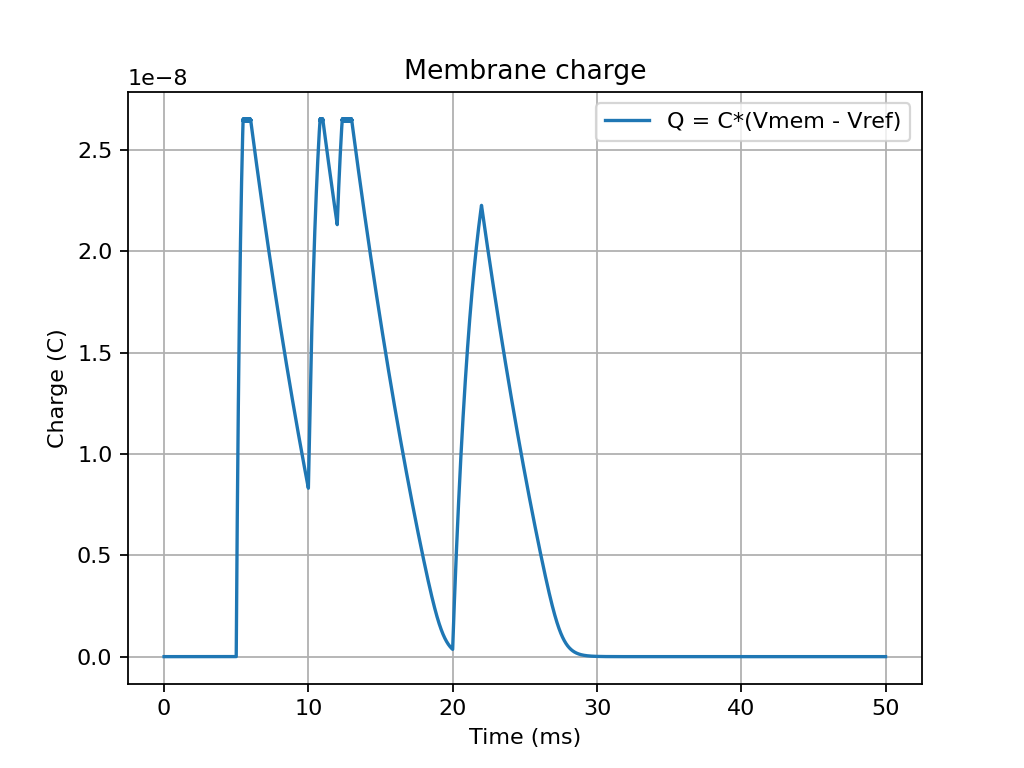
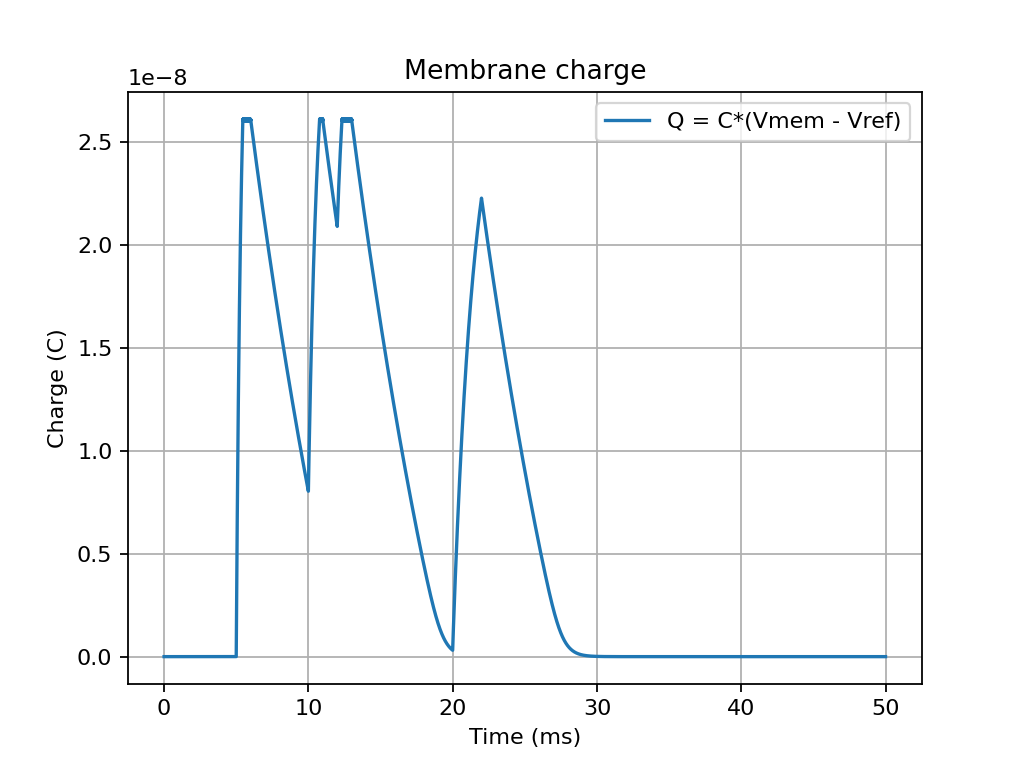
Minor improvements

diff --git a/SPICE/neuronSim/lif_neuron_generator.py b/SPICE/neuronSim/lif_neuron_generator.py
@@ -140,46 +140,72 @@ def generate_fast_neuron(cfg: NeuronConfig) -> str:
 def generate_detailed_neuron(cfg: NeuronConfig) -> str:
     """
     DETAILED neuron subckt:
-      - Vref buffered by a simple OPA604-like macromodel (finite gain and GBW)
-      - Comparator has input offset and explicit delay (via RC)
-      - Reset through MAX4617-like Ron (+ external series resistor) and Coff
+      - Vref buffered (OPA604-like follower)
+      - Membrane RC to Vref
+      - Comparator with *real* hysteresis network (resistors) and small delay/offset
+      - Reset through MAX4617-like Ron/Coff + series resistor
     """
     s = []
     s.append(_header(f"{cfg.name} DETAILED neuron subcircuit"))
     s.append(f".subckt {cfg.name}_detailed mem vref vdd comp_out vpos vneg\n")
-    # Vref buffer (OPA604-like): simple single-pole op-amp model in unity gain
+
+    # --- Vref buffer (OPA604-like follower; simple high-gain + pole) ---
     s.append("* OPA604-like buffer for Vref (unity gain follower)\n")
-    s.append("Ebuf vref_buf 0 vref 0 1e5\n")                 # finite DC gain
+    s.append("Ebuf vref_buf 0 vref 0 1e5\n")        # very high DC gain
     s.append("Rbuf vref_buf vref 1k\n")
-    s.append("Cbuf vref 0 80p\n")                            # sets a pole ~20 MHz for 1e5 gain/GBW notionally
-    s.append("* Tie the external vref node to the buffered node\n")
+    s.append("Cbuf vref 0 80p\n")                   # small pole -> finite bandwidth
+    s.append("* Tie external vref node to buffered node (very small tie)\n")
     s.append("Rvr vref vref_buf 1m\n")
-    # Membrane
+
+    # --- Membrane ---
     s.append(f"Cmem mem vref {cfg.membrane.C_mem_F}\n")
     s.append(f"Rleak mem vref {cfg.membrane.R_leak_ohm}\n")
-    # Threshold and hysteresis
-    s.append(f".param VTH0={cfg.threshold.over_vref_V}\n")
-    s.append(f".param HYST={cfg.threshold.hysteresis_V}\n")
-    s.append(f".param VLO={cfg.comparator.vlow_V} VHI={cfg.comparator.vhigh_V}\n")
-    s.append("* Dynamic threshold w/ hysteresis\n")
-    s.append("Bvth vth 0 V = V(vref) + VTH0 + HYST*((V(comp_out)-(VLO+VHI)/2)/(VHI-VLO))\n")
-    # Comparator core: tanh + input offset + output RC for delay
-    s.append("* Comparator with offset and RC delay\n")
-    s.append(f"Bcomp comp_raw 0 V = VLO + (VHI-VLO)*0.5*(1+tanh(2000*(V(mem)-V(vth)-{cfg.comparator.offset_V})))\n")
-    # Simple delay: RC on output
-    rc = max(cfg.comparator.prop_delay_s/10, 1e-9)
-    rout = max(cfg.comparator.prop_delay_s/rc, 1.0)
+
+    # --- Real comparator hysteresis network (non-inverting Schmitt) ---
+    # Target center = Vref + cfg.threshold.over_vref_V  (e.g., 2.5 + 0.8 = 3.3 V)
+    # Hysteresis width ~ cfg.threshold.hysteresis_V (e.g., 0.05 V total, ±25 mV)
+    # Choose divider from VDD to Vref, then compute Rf to get required beta = ΔVhys / (VHI-VLO).
+    vhi = cfg.comparator.vhigh_V
+    vlo = cfg.comparator.vlow_V
+    dv_out = max(vhi - vlo, 1e-6)
+    beta = cfg.threshold.hysteresis_V / dv_out               # ~0.05/5 = 0.01
+
+    # Practical divider near 133k/62k -> center ≈ Vref + 0.8 V with Vdd=5 V (documented in README)
+    # We hardcode those here to keep subckt deterministic; feel free to make JSON-driven later.
+    s.append("* Divider to set center threshold near Vref+over_vref_V\n")
+    s.append("Rvh  vdd     vth_node 133k\n")                  # top to VDD
+    s.append("Rvl  vth_node vref    62k\n")                   # bottom to Vref
+
+    # Compute Rf that gives beta ≈ hysteresis_V / (VHI-VLO)
+    # beta = (1/Rf) / (1/Rf + 1/Rvh + 1/Rvl)  ->  Rf = 1 / (beta*(1/Rvh+1/Rvl)/(1-beta))
+    # We'll implement numerically here and place as a param’d value in the netlist.
+    g_div = (1.0/133000.0) + (1.0/62000.0)
+    Rf = (1.0 / (beta * g_div / max(1.0 - beta, 1e-6)))
+    Rf_ohm = max(min(Rf, 50e6), 100e3)                        # guardrails
+    s.append(f"Rf   comp_out vth_node {Rf_ohm:.3g}\n")         # e.g., ~4.22e6
+
+    # --- Comparator core: tanh around (mem - vth_node - offset), with small delay ---
+    s.append(f".param VLO={vlo} VHI={vhi}\n")
+    s.append("* Comparator behavioral core w/ small input offset and output RC delay\n")
+    # RC chosen so that rout*rc ~= cfg.comparator.prop_delay_s (keep rout >= 10 for convergence)
+    rc = max(cfg.comparator.prop_delay_s/10.0, 1e-9)
+    rout = max(cfg.comparator.prop_delay_s/rc, 10.0)
+    s.append(f"Bcomp comp_raw 0 V = VLO + (VHI-VLO)*0.5*(1+tanh(2000*( V(mem) - V(vth_node) - {cfg.comparator.offset_V} )))\n")
     s.append(f"Rcout comp_raw comp_out {rout}\n")
     s.append(f"Ccout comp_out 0 {rc}\n")
-    # Reset through MAX4617-like switch (Ron, Coff) in series with external resistor
+
+    # --- Reset path through MAX4617-like switch (Ron/Coff) ---
     if cfg.reset.enable:
-        s.append("* Reset path through MAX4617-like switch in series with a limiting resistor\n")
+        s.append("* Reset path: mem -> Rseries -> (switch Ron/Coff) -> Vref\n")
         s.append(f"Rreset mem reset_node {cfg.reset.series_R_ohm}\n")
-        s.append("Coff_reset reset_node vref {Coff}\n".replace("{Coff}", f"{cfg.reset.mux_Coff_F}"))
+        s.append(f"Coff_reset reset_node vref {cfg.reset.mux_Coff_F}\n")
         s.append("Sreset reset_node vref comp_out 0 SWMUX\n")
-        s.append(f".model SWMUX SW(Ron={cfg.reset.mux_Ron_ohm} Roff={cfg.reset.mux_Roff_ohm} Vt={cfg.reset.switch_Vt} Vh={cfg.reset.switch_Vh})\n")
+        s.append(f".model SWMUX SW(Ron={cfg.reset.mux_Ron_ohm} Roff={cfg.reset.mux_Roff_ohm} "
+                 f"Vt={cfg.reset.switch_Vt} Vh={cfg.reset.switch_Vh})\n")
+
     s.append(".ends\n")
     return "".join(s)
+
 
 def main():
     ap = argparse.ArgumentParser(description="Generate ngspice subcircuits for a LIF neuron.")
